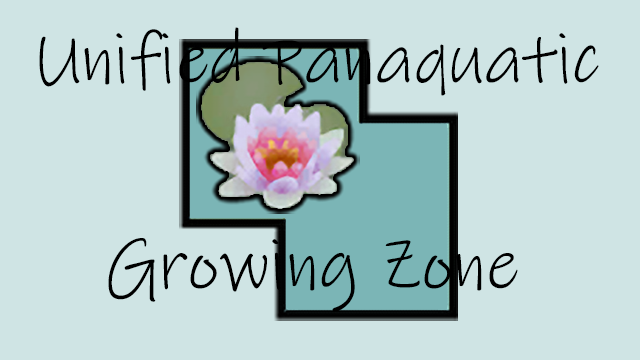
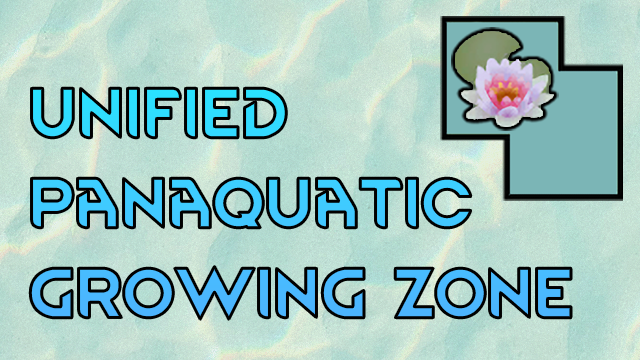
Shinier Preview.png and assorted refactorings

diff --git a/Source/PanaquaticUtility.cs b/Source/PanaquaticUtility.cs
@@ -19,8 +19,8 @@ public static class PanaquaticUtility
     //should I also make it check for polluted water?
     public static void WarnIfPreferenceMismatch(ThingDef plantDef, IPlantToGrowSettable settable)
     {
-        if (plantDef.HasModExtension<PlantPreferenceModExtension>() &&
-            plantDef.GetModExtension<PlantPreferenceModExtension>().plantPreference ==
+        if (plantDef.HasModExtension<PlantSalinityPreference>() &&
+            plantDef.GetModExtension<PlantSalinityPreference>().plantPreference ==
             WaterPlantPreference.Either) return;
 
         var plantTags = plantDef.plant.WildTerrainTags;

diff --git a/Source/ModExtension_PlantPreference.cs b/Source/ModExtension_PlantPreference.cs
@@ -2,14 +2,15 @@ using Verse;
 
 namespace PanaquaticZone;
 
-public class PlantPreferenceModExtension : DefModExtension 
+public class PlantSalinityPreference : DefModExtension
 { 
     public WaterPlantPreference plantPreference; 
 }
 
 public enum WaterPlantPreference
 {
+    Freshwater = 0,
     Saltwater,
-    Freshwater,
-    Either
+    Either,
+    WildTagged
 }

diff --git a/Source/HarmonyPatches/HarmonyPatch_PanaquaticPlantList.cs b/Source/HarmonyPatches/HarmonyPatch_PanaquaticPlantList.cs
@@ -5,7 +5,7 @@ using HarmonyLib;
 namespace PanaquaticZone;
 
 [HarmonyPatch(typeof(PlantUtility), "CanSowOnGrower")]
-public static class HarmonyPatch_PanaquaticZonePlants
+public static class HarmonyPatch_PanaquaticPlantList
 {
     public static void Postfix(ThingDef plantDef, object obj, ref bool __result)
     {
